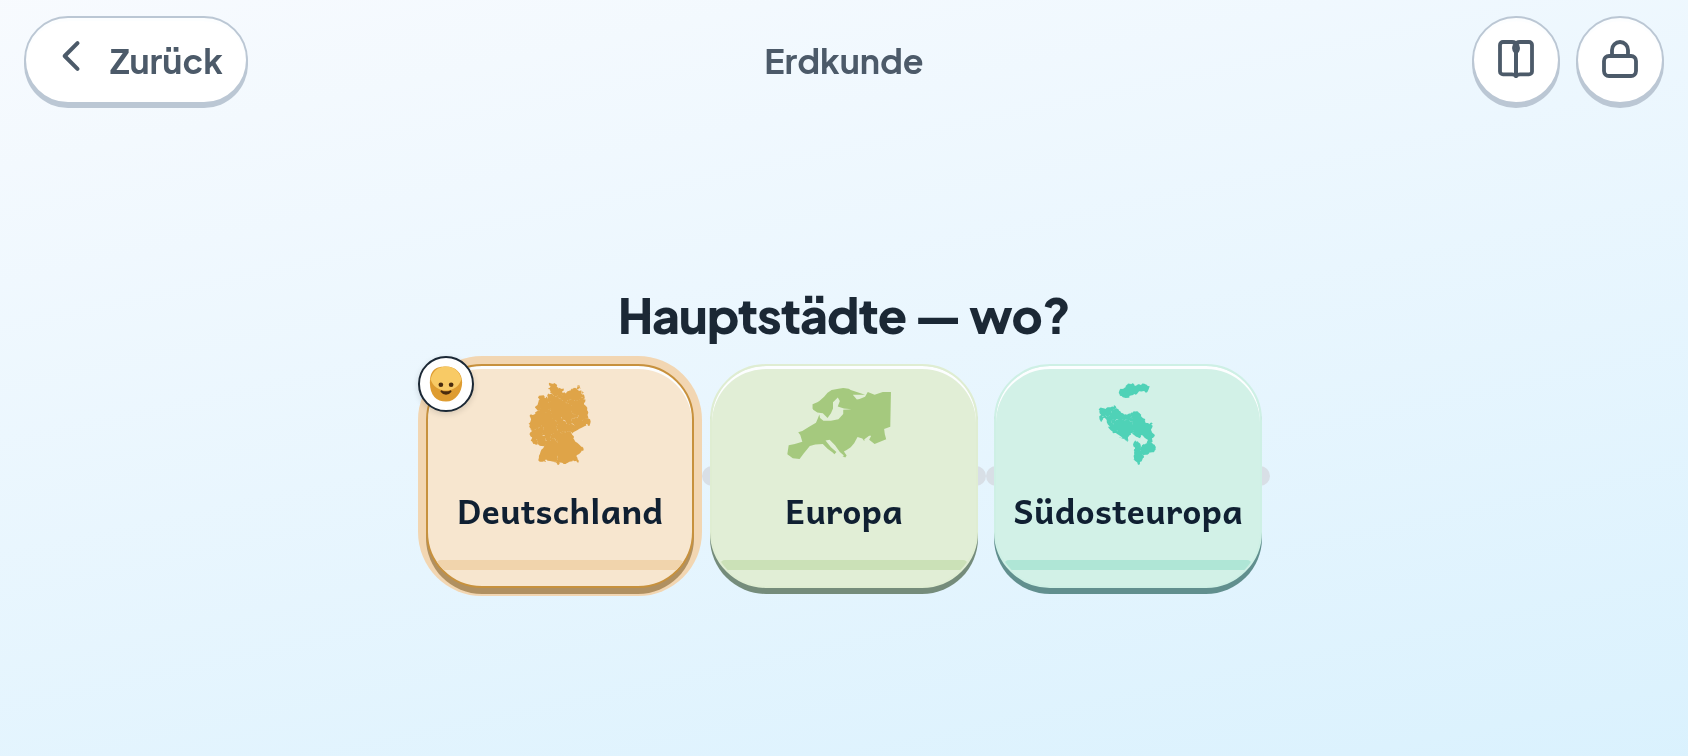
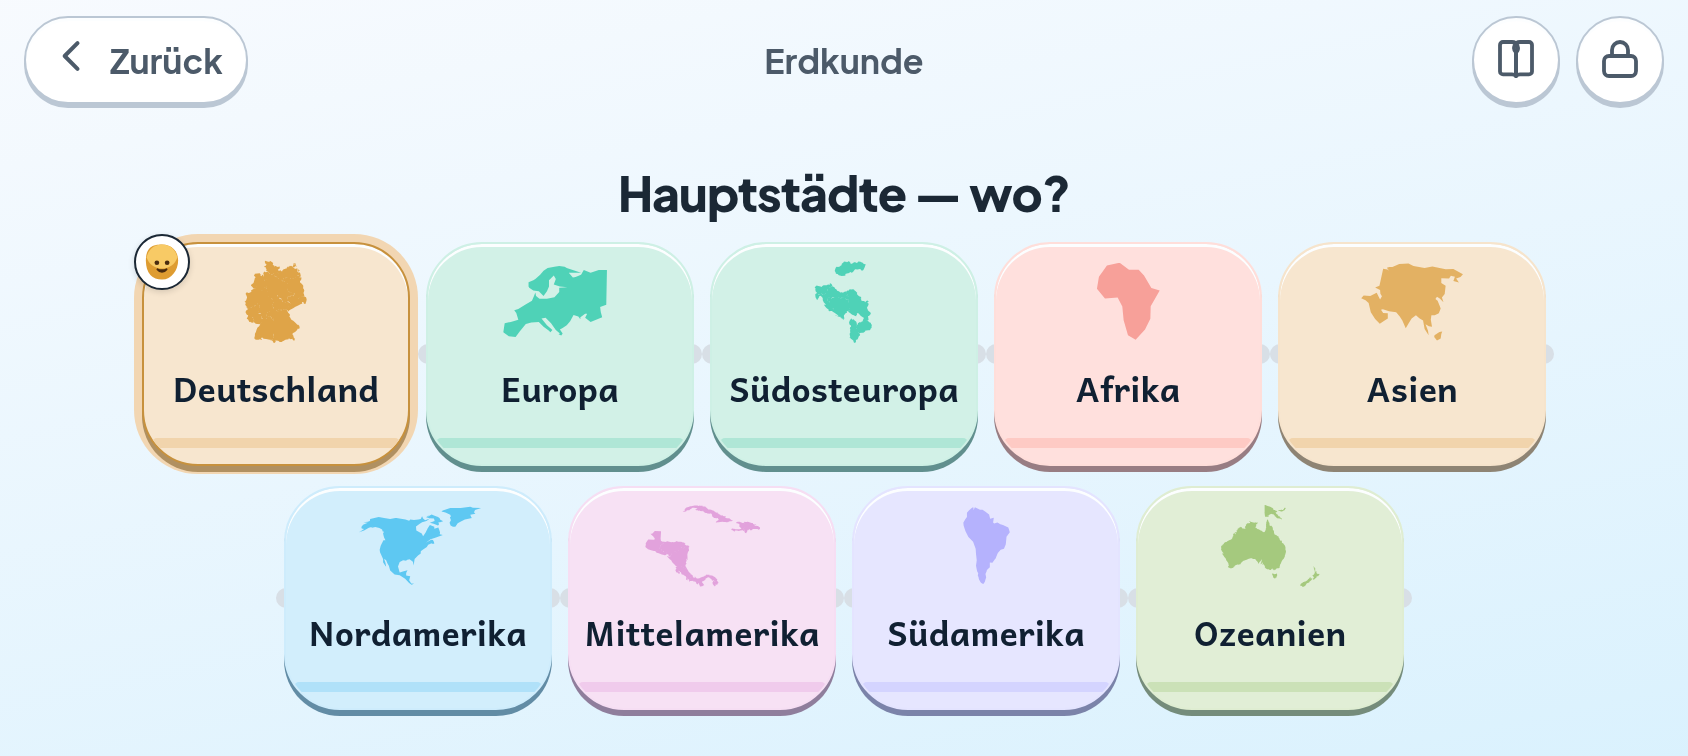
I16: die zwei Vorbilder, drei Gegenproben und der Audit-Abschnitt
`quer-gruppe` zeigt die Gruppenkachel „Hauptstädte - wo?" mit NEUN Karten
statt drei (44,9 % andere Bildpunkte, zwei Reihen, alle auf dem
Zielgeraet im Bild). `quer-welten-lea` zaehlt 29 Uebungen und 0/307 statt
23 und 0/254. Beide angesehen, beide sind die erwartete Aenderung.

Drei Gegenproben:
- die Hauptstadt weicht von der gebackenen Lage ab (Myanmar zurueck auf
  Rangun - wenn die nicht anschlaegt, ist der Weg zurueck zu den
  Kartendaten wieder offen)
- ein Ziel verliert seine Hauptstadt ohne Grund (Groenland)
- eine Karte faehrt ohne Hauptstadt-Ratsche

Und `regeln` hat beim Schreiben des Audit-Abschnitts noch einmal
angeschlagen: der Satz „... ist hier Regel 3, nicht Regel 10" ist fuer
das Tor ein Verweis auf die Zehn. Er nennt sie jetzt nicht mehr beim
Namen - eine Pruefung, die den Unterschied zwischen Reden UEBER eine
Regel und einem Verweis nicht kennt, ist unscharf, und unscharf ist
hier die richtige Seite.

Claude-Session: https://claude.ai/code/session_01GwecUQxeRqJxKHLkGsVrjv

diff --git a/docs/Lernkiste-AUDIT-INHALT.md b/docs/Lernkiste-AUDIT-INHALT.md
@@ -16,12 +16,12 @@ gleichen Sätze?"
 *(Diese Zahl war zur Hälfte falsch — siehe I6. Die Hälfte, die stimmte,
 ist abgearbeitet.)*
 
-**Stand nach allen fünfzehn Paketen (v570):**
+**Stand nach allen sechzehn Paketen (v575):**
 
-> **0 von 122 Profil-Ebenen** unter zwei Runden Vorrat. 55 weitere liegen
+> **0 von 140 Profil-Ebenen** unter zwei Runden Vorrat. 67 weitere liegen
 > darunter, weil ihr Vorrat die Welt ist.
 
-Aus 100 Profil-Ebenen sind 122 geworden. Acht davon sind **neue Fragen**
+Aus 100 Profil-Ebenen sind 140 geworden. Acht davon sind **neue Fragen**
 und nicht längere Listen:
 
 | | Ebene | Für wen | Vorrat |
@@ -43,8 +43,8 @@ heutigen Stand:
 |---|---|---|
 | Länder mit Namen | 69 | **124** |
 | Karten | 7 | **8** |
-| Hauptstädte in Europa | 17 | **29** |
-| Hauptstädte in Südosteuropa | — | **7** |
+| Hauptstädte (alle Karten) | 17 | **123** |
+| Karten mit Hauptstadtebene | 1 | **8** |
 | Gezeichnete Flaggen | 69 | **109** |
 | Verwechslungspaare | 13 | **22** |
 | Falsche Freunde · Wendungen · Hörsätze | 30 · 20 · 12 | **60 · 60 · 34** |
@@ -835,6 +835,81 @@ hierher immer gleich hoch waren. Eine Prüfung, die im Befundfall
 abstürzt, hat nie etwas bewiesen (Regel 1). Beide Stellen tragen jetzt
 eine Gegenprobe — die zweite ist die, die den Zweig überhaupt zum ersten
 Mal erreicht hat.
+
+### I16 · Die Hauptstadt ist Inhalt, nicht Geodatum — **gebaut (v575)**
+
+Der nächste Schritt sollte „Hauptstädte auf den übrigen sechs Karten"
+sein. Beim Nachsehen in den Rohdaten kam etwas anderes heraus.
+
+> **Natural Earths `Admin-0 capital` ist außerhalb Europas in sieben von
+> 88 Fällen nicht die Hauptstadt.**
+
+| Land | stand in den Daten | ist es aber |
+|---|---|---|
+| Myanmar | Rangun | **Naypyidaw** (seit 2005) |
+| Kasachstan | Nur-Sultan | **Astana** (seit 2022 wieder) |
+| Tansania | Daressalam | **Dodoma** (seit 1996) |
+| Elfenbeinküste | Abidjan | **Yamoussoukro** (seit 1983) |
+| Benin | Cotonou | **Porto-Novo** |
+| Südafrika | Kapstadt | **Pretoria** (Regierungssitz) |
+| Bolivien | La Paz | **Sucre** (nach der Verfassung) |
+
+Und die Gegenrichtung ist genauso schief: **`Admin-0 capital alt` heißt
+nicht „Regierungssitz".** Bei Japan steht dort Kyoto, bei Marokko El
+Aaiún, bei Nigeria Lagos, bei den Philippinen Baguio City — eine
+ehemalige Hauptstadt, ein besetztes Gebiet, eine ehemalige Hauptstadt und
+eine Sommerresidenz. Die Ableitung `falle: !!regierungssitz`, die seit R6
+in `bauen.mjs` steht, hätte bei vier Ländern behauptet, die Regierung
+sitze woanders.
+
+**Das Soll kommt aus der Referenz (Regel 3) — aber die Referenz für „was
+ist die Hauptstadt" ist der Schulatlas und nicht ein Kartendatensatz, der
+nach Bevölkerungsschwerpunkten gebaut ist.** Die Antwort steht jetzt in
+`HAUPTSTADT_LAND`: 123 Länder, sieben davon mit ausgeschriebenem
+Regierungssitz. Aus den Geodaten kommt nur noch die **Lage**, gesucht
+über alle Orte des Landes und ohne Rücksicht auf das Kennzeichen — was
+nötig war: **Pjöngjang** steht in diesem Datensatz als `Populated place`
+und **Niamey** als `Admin-1 capital`. Beide hätten das alte Werkzeug zum
+Absturz gebracht, sobald Asien und Afrika Hauptstädte bekommen.
+
+**Sechs neue Ebenen, und sie werden erzeugt statt aufgeschrieben.** Der
+Schalter `hauptstaedte` im Backwerkzeug ist weg: er stand bei R6 bei
+einer Karte, bei I14 bei zwei, und bei acht ist er keine Entscheidung
+mehr, sondern eine Stelle, an der man ihn vergessen kann — genau das ist
+bei I14 passiert.
+
+| Karte | Hauptstädte | Karte | Hauptstädte |
+|---|---|---|---|
+| Asien | 30 | Südamerika | 12 |
+| Afrika | 30 | Mittelamerika | 9 |
+| Europa | 29 | Südosteuropa | 7 |
+| Nordamerika | 3 | Ozeanien | 3 |
+
+**Grönland steht mit Absicht nicht dabei**: Nuuk ist die Hauptstadt einer
+autonomen Region, nicht eines Staates. Das steht als benannter Grund in
+`HAUPTSTADT_OHNE_FRAGE`, und das Tor verlangt für jedes Ziel entweder
+eine Hauptstadt oder einen solchen Grund — „wir haben uns etwas dabei
+gedacht" darf nicht aussehen wie „vergessen".
+
+**176 neue Ablenker**, nach derselben Regel wie in Europa: die Stadt, die
+jemand für die Hauptstadt *halten* könnte. In Asien und Afrika ist das der
+Regelfall — Istanbul gegen Ankara, Mumbai gegen Neu-Delhi, Lagos gegen
+Abuja, Rangun gegen Naypyidaw. Wo die Regierung woanders sitzt, steht
+diese Stadt vorn; **das Tor hat drei Fälle gefunden, in denen ich sie
+hinten hatte** (Malaysia, Sri Lanka, Chile).
+
+**Zwei Funde nebenbei, beide von Toren:**
+
+- `regeln` hat gemeldet, dass ich towerfronts Regelnummern benutzt habe.
+  „Das Soll kommt aus der Referenz" ist in diesem Verzeichnis **Regel 3**;
+  im anderen trägt derselbe Satz die Zehn. Zwei Projekte, zwei
+  Nummerierungen, ein Kopf.
+- `npm run doppelt -- --neu` hat die Begründungen **aller sechzehn**
+  eingetragenen Dopplungen mit „NOCH NICHT BEGRÜNDET" überschrieben. Ein
+  Aufruf, und die einzige Auskunft, die diese Datei wertvoll macht, war
+  weg — das Tor wäre danach grün geblieben, weil die Zahlen stimmen. Es
+  übernimmt sie jetzt anhand des Dateisatzes und sagt, wie viele es
+  behalten hat.
 
 ## Das Werkzeug
 
